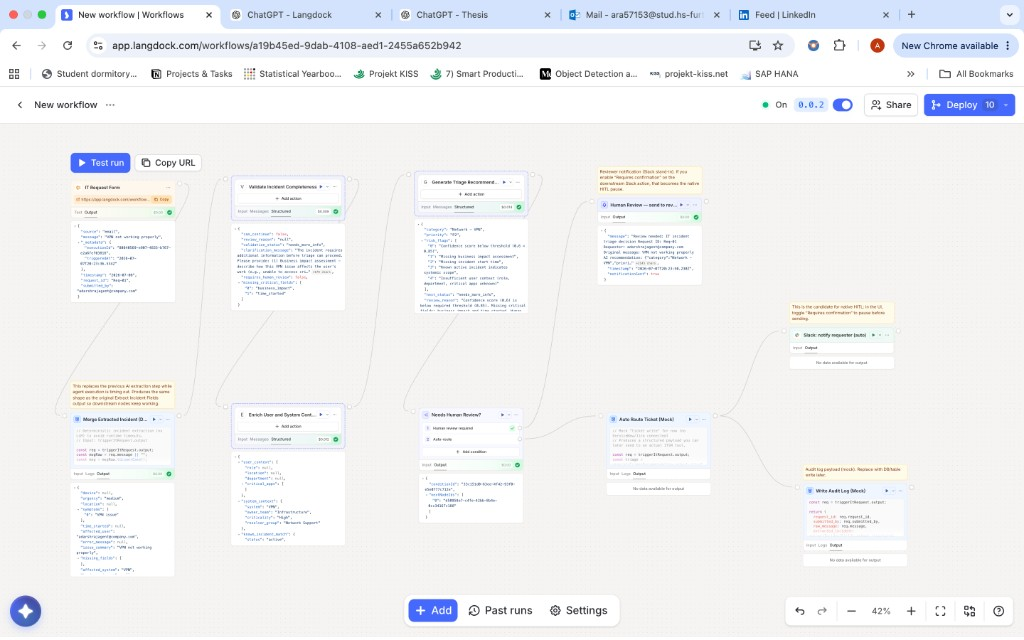
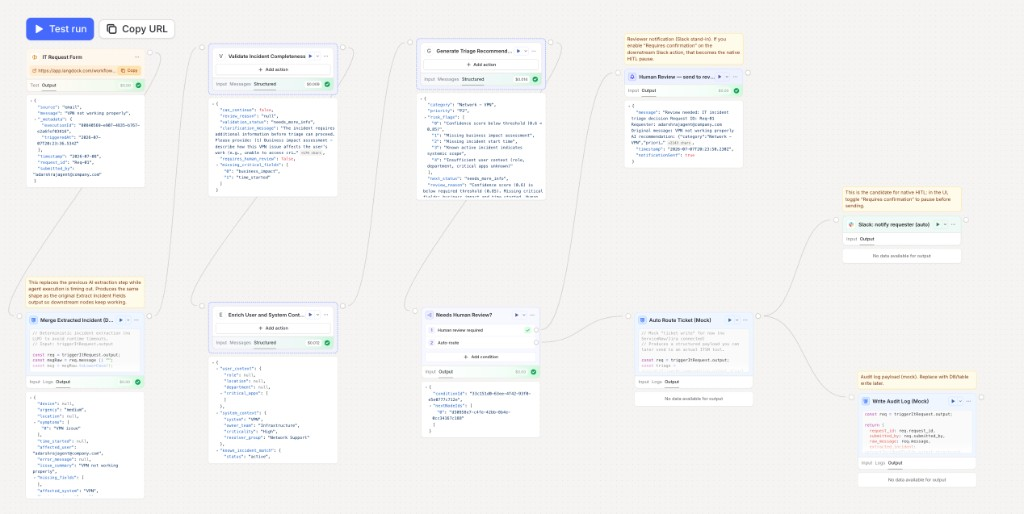
Update Day 6 workflow screenshot and bump image cache.
Replaces the Langdock workflow diagram with the latest screenshot so the live site serves the updated visual.

diff --git a/src/data/useCases.ts b/src/data/useCases.ts
@@ -6,7 +6,7 @@ function dayFolder(day: number): string {
 
 function imagePaths(day: number) {
   const folder = `/use-cases/day-${dayFolder(day)}`;
-  const version = "v6";
+  const version = "v7";
   return {
     workflowImage: `${folder}/workflow.png?${version}`,
     architectureDiagram: `${folder}/architecture.png?${version}`,